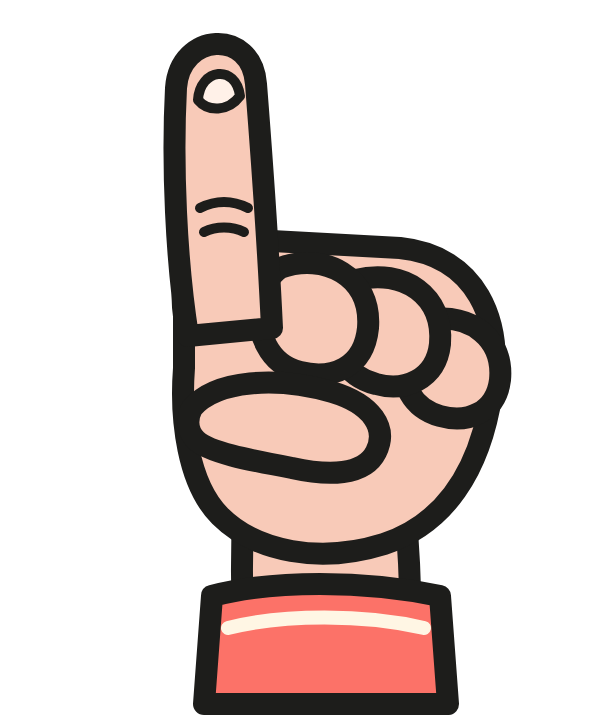
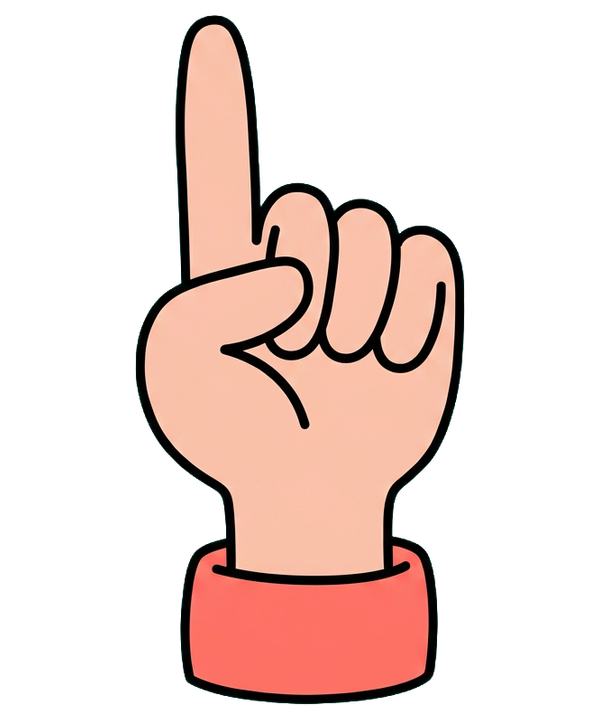
Tuto : main du guide générée sur Higgsfield dans le style des élèves
Claude-Session: https://claude.ai/code/session_01QntoMQV7ktGRtjdgw19tPa

Changed region(s): [[0.21, 0.0, 0.87, 1.0]]

diff --git a/src/game/ui/guideTuto.ts b/src/game/ui/guideTuto.ts
@@ -9,13 +9,14 @@ import { MAIN_TUTO } from '../scenes/ChargementScene';
  */
 
 /**
- * La main qui montre, dessinée au trait des élèves (`public/tuto/main.png`, peau du Grand,
+ * La main qui montre, dessinée sur Higgsfield dans le style des élèves (`public/tuto/main.png`, job
+ * 7bd6ca01, fond cyan détouré), peau du Grand,
  * manchette rouge). Le bout de l'index est en (0, 0) ; la main est un peu penchée.
  */
 export function creerMain(scene: Phaser.Scene): Phaser.GameObjects.Container {
   const image = scene.add.image(0, 0, MAIN_TUTO);
-  // Bout de l'index dans le dessin (600 × 720), ramené à 150 px de haut à l'écran.
-  image.setOrigin(216 / 600, 30 / 720).setScale(180 / 720);
+  // Bout de l'index dans le dessin (600 × 720), ramené à 180 px de haut à l'écran.
+  image.setOrigin(214 / 600, 26 / 720).setScale(180 / 720);
   return scene.add.container(0, 0, [image]).setRotation(-0.28);
 }
 

diff --git a/docs/decisions.md b/docs/decisions.md
@@ -594,7 +594,7 @@ Demande de Clément : « Je commence à avoir un doute avec le design de mes ali
 Demande de Clément : « Attaque le tuto », public visé 13 ans et plus. Piste 4 de l'audit du 28/11 : trois mini-leçons jouées pour de vrai, chacune finie sur une petite victoire, puis la première partie contre l'ordi facile.
 
 - **DJ.1 — Trois leçons sur la cour du premier jour**, contre l'ordi, le joueur en Écoliers rouges (en bas) face aux Vers. Chaque leçon part d'une cour toute prête (`src/game/tuto.ts`) et se gagne en 1 à 5 coups : 1. « Fonce à la cabane » (poser, faire son chemin, appeler +2 copains quand la main est vide, entrer dans la cabane) ; 2. « Plaque ! » (le Grand 7 plaque la Fouine 4 qui barre le toboggan, puis même le Populaire 1 entre dans la cabane) ; 3. « Le goûter » (2 goûters déjà ramassés, il manque un îlot autour de la sucette ; le surveillant la garde, puis s'en va et le goûter tombe : 3/3, gagné). Les équipements sont coupés (pas de banc planque) et aucun élève à pouvoir n'est posé : pas de vidéo pendant le tuto. Pouvoirs, Petit et îlots spéciaux viennent en jouant (conseils existants).
-- **DJ.2 — Le guide** : une bulle de papier en haut de l'écran (onglet « Leçon n/3 · titre »), une main dessinée au trait des élèves (`public/tuto/main.png` : peau du Grand, ongle, doigts repliés, manchette rouge ; dessin à la main remplacé le 28/11 à la demande de Clément) qui fait le geste en boucle (glisser la bonne carte jusqu'à l'îlot, ou toucher « +2 copains ») et des ronds jaunes qui respirent autour des îlots à regarder. La main s'efface dès qu'on prend une carte. Le texte suit l'état de la partie, pas un script figé : un joueur qui pose ailleurs est quand même guidé jusqu'au bout.
+- **DJ.2 — Le guide** : une bulle de papier en haut de l'écran (onglet « Leçon n/3 · titre »), une main dessinée au trait des élèves (`public/tuto/main.png`, générée sur Higgsfield avec le Grand en référence, job 7bd6ca01, 6 cr : index levé, poing, manchette rouge ; deux versions dessinées en code refusées par Clément) qui fait le geste en boucle (glisser la bonne carte jusqu'à l'îlot, ou toucher « +2 copains ») et des ronds jaunes qui respirent autour des îlots à regarder. La main s'efface dès qu'on prend une carte. Le texte suit l'état de la partie, pas un script figé : un joueur qui pose ailleurs est quand même guidé jusqu'au bout.
 - **DJ.3 — Poses permises** : dans les leçons 2 et 3, seule la pose qui fait la leçon est permise (les autres îlots ne s'allument pas, la carte trop faible reste grisée). Dans la leçon 1, tout ce que la règle permet. L'ordi ne fait qu'appeler des copains, il ne gêne jamais.
 - **DJ.4 — Entrée** : la toute première fois qu'on touche « Jouer contre l'ordi », le tuto démarre ; on peut le passer (« Passer le tuto » sur chaque carte de leçon et sous la bulle). Il est aussi rejouable à tout moment par « Apprendre à jouer », à côté de « Réglages » à l'accueil. Fini ou passé, il n'est plus proposé (préférence `cour-des-grands.tuto-a-faire`). Le tuto n'est jamais gardé comme partie à reprendre.
 - **DJ.5 — Fin de leçon** : la transition de victoire habituelle (tampon « CABANE PRISE ! » ou « GOÛTERS DÉVALISÉS ! »), sans la vidéo de victoire, puis une carte « Leçon réussie ! » avec une étoile par leçon et ce qu'il faut retenir. Après la 3e : « Tu sais jouer ! », un mot sur les pouvoirs, et « Ma première partie » (choix de la carte et de la bande, ordi facile).
